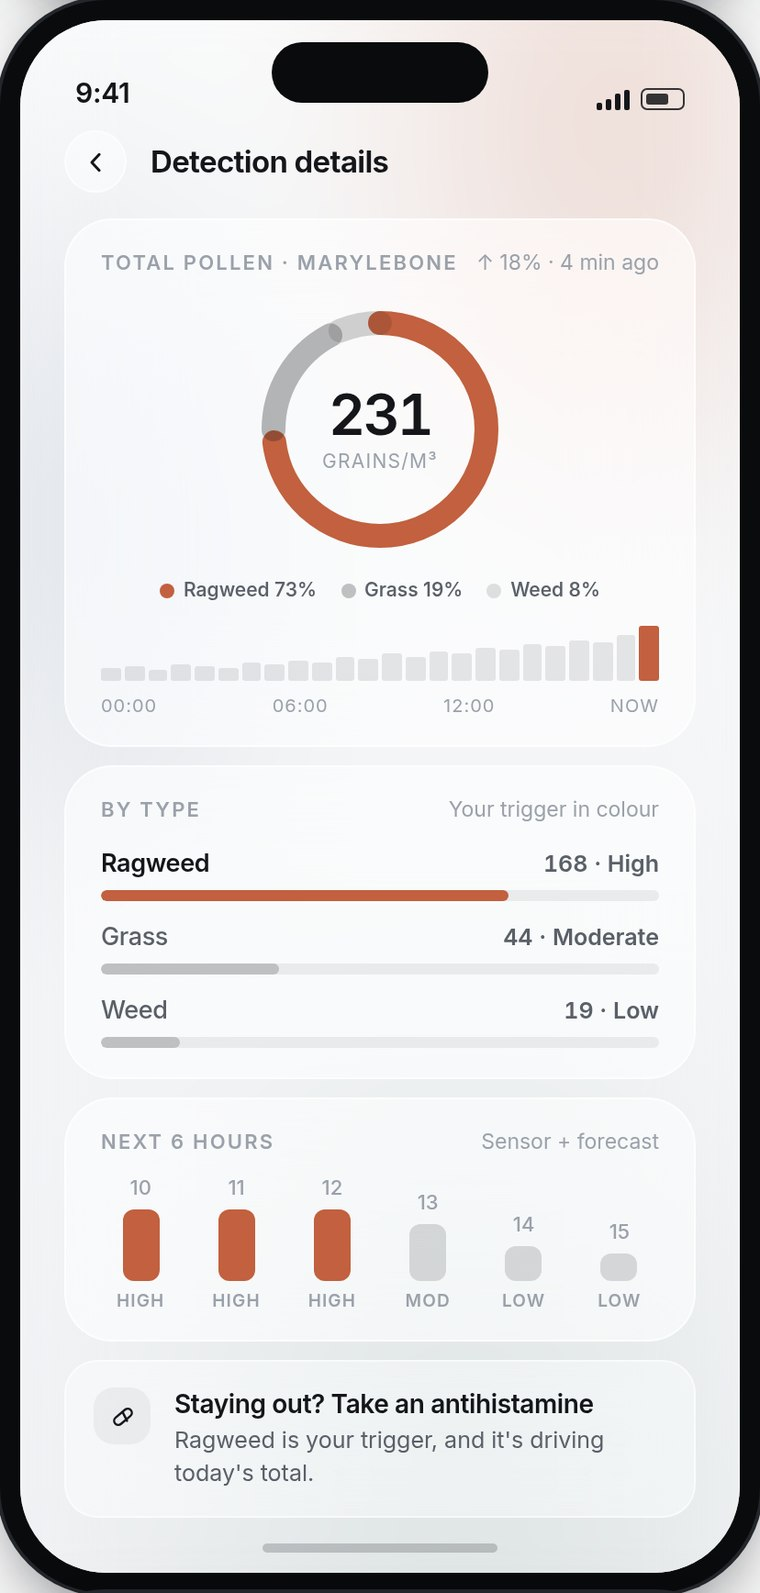
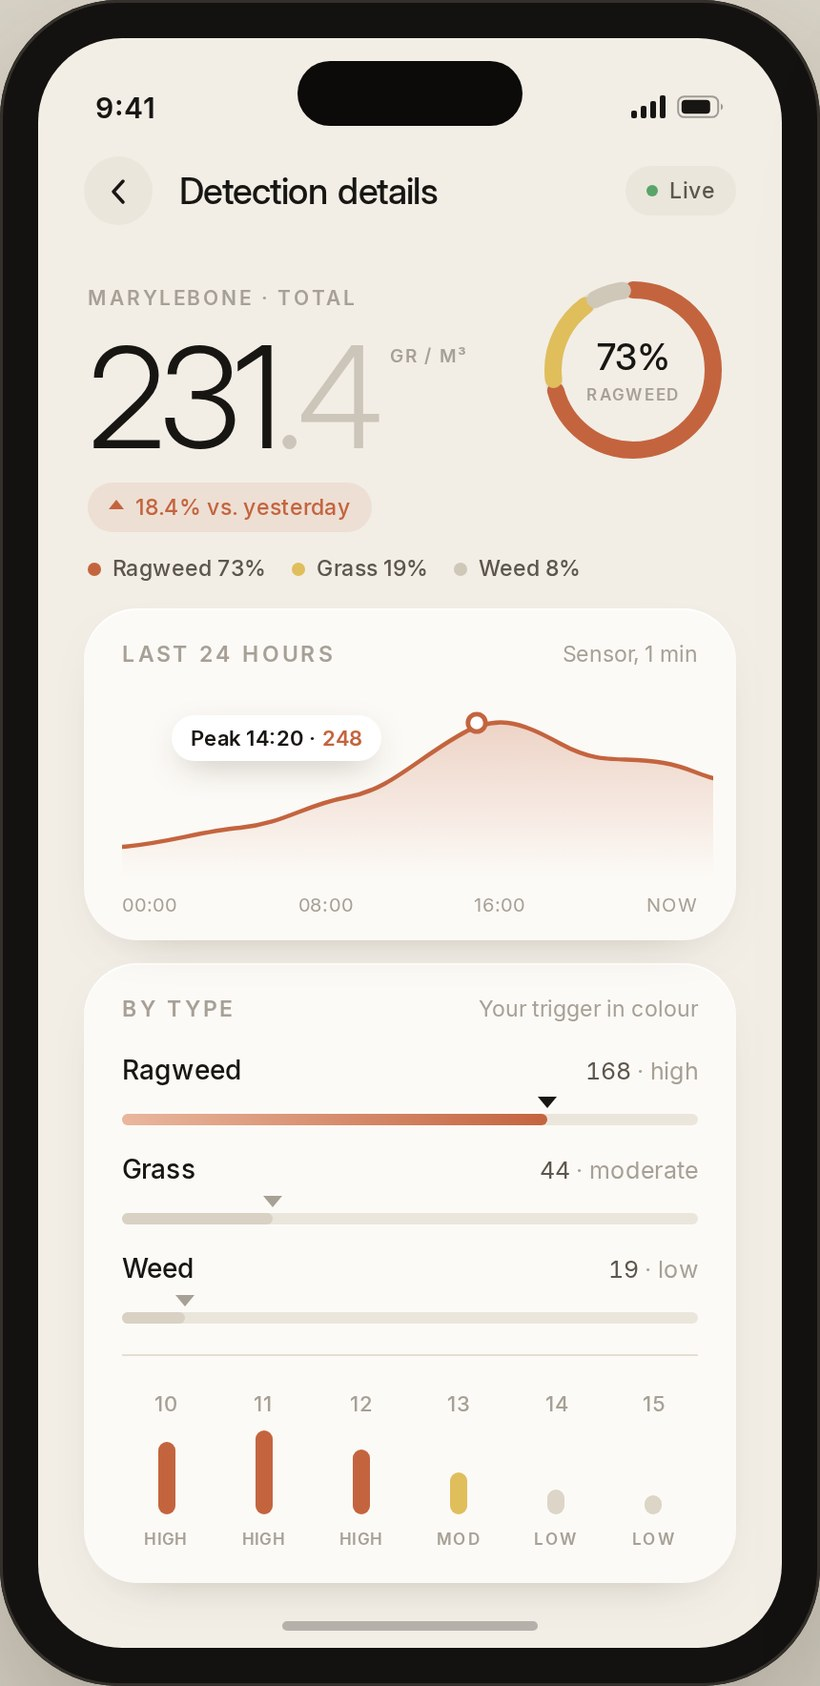
RES: redo the 2026 app screens in a more restrained editorial style
Warm paper ground instead of clinical white, oversized two-tone figures
for the reading that matters, one accent colour plus a single muted
second tone, floating callout on the 24-hour trend, and triangle markers
on the by-type scale. The composition ring stays.

Claude-Session: https://claude.ai/code/session_01A2AqwaHUmSdqfKoAZn74z6

Changed region(s): [[0.0, 0.0, 1.0, 1.0], [0.0908, 0.8613, 0.1211, 0.9228]]

diff --git a/work/res.html b/work/res.html
@@ -148,7 +148,7 @@
 
     <h2>Revisiting the interface, 2026</h2>
     <p>The screens above are what the team shipped in 2025. Coming back to them after a year at Xiaomi Auto and 1Soul, I can see exactly where my craft was thinner than my thinking: the data was there, but it wasn't ranked, so the screen never said which number to act on. Percentages sat in a ring chart that's hard to compare across three categories. The advice was generic where the whole premise of RES is that it knows <em>your</em> trigger.</p>
-    <p>So I redesigned the three core screens against the same requirements, on a deliberately narrow system: one accent colour, spent only where an action is required, everything else tonal, and frosted glass over a soft blurred field so the data sits on something rather than floating on flat white. Nothing here shipped; it's a personal exercise, dated as such, and I'm keeping the originals alongside because the gap is the point.</p>
+    <p>So I redesigned the three core screens against the same requirements, on a deliberately narrow system: a warm paper ground instead of clinical white, one accent colour carrying the reading you're meant to act on and a single muted second tone for everything ranked below it, figures set large enough to read at arm's length, and frosted glass only where a sheet genuinely sits over live context. Nothing here shipped; it's a personal exercise, dated as such, and I'm keeping the originals alongside because the gap is the point.</p>
 
     <div class="thennow">
       
@@ -158,7 +158,7 @@
               <span class="thennow__tag">2025 · shipped</span>
             </figure>
             <figure class="thennow__shot">
-              <img src="../assets/images/res/app-alert-2026.jpg" alt="The 2026 redesign of the alert screen: a frosted-glass sheet over a blurred map, headed 'High ragweed where you're standing', with a 168 grains per cubic metre reading, an antihistamine timing row, a cleaner-air suggestion, and Not now / Remind me buttons" loading="lazy">
+              <img src="../assets/images/res/app-alert-2026.jpg" alt="The 2026 redesign of the alert screen: a frosted-glass sheet over a map, headed 'High ragweed where you're standing', with a 168 grains per cubic metre reading marked as 2.1 times the user's threshold, an antihistamine timing row, a cleaner-air suggestion, and Not now / Remind me buttons" loading="lazy">
               <span class="thennow__tag thennow__tag--new">2026 · redesigned</span>
             </figure>
           <p class="thennow__cap"><strong>Alert.</strong> The original led with the word "Alert" and a duration. The redesign leads with what's actually happening and to whom, states the reading against the user's own threshold, and turns "take 2 pills" into a timed action plus an escape route: where the air is clearer.</p>
@@ -170,7 +170,7 @@
               <span class="thennow__tag">2025 · shipped</span>
             </figure>
             <figure class="thennow__shot">
-              <img src="../assets/images/res/app-detail-2026.jpg" alt="The 2026 redesign of detection details: glass cards showing a total of 231 grains per cubic metre with a 24-hour trend, a by-type breakdown where only the user's trigger carries colour, a six-hour forecast, and an antihistamine suggestion" loading="lazy">
+              <img src="../assets/images/res/app-detail-2026.jpg" alt="The 2026 redesign of detection details: an oversized 231 grains per cubic metre reading beside the pollen composition ring, a 24-hour trend with the peak called out, the three pollen types ranked on one shared scale with only the user's trigger in colour, and a six-hour forecast" loading="lazy">
               <span class="thennow__tag thennow__tag--new">2026 · redesigned</span>
             </figure>
           <p class="thennow__cap"><strong>Detection details.</strong> Three separate sparklines can't be compared at a glance, so the original made you do the work. The composition ring stays, because it was the right idea: one glance tells you what the air is made of. What changed is everything around it. The three types are also ranked on one shared scale, colour is spent only on the type you actually react to, and a six-hour forecast is added, which is what turns a reading into a decision about when to go out.</p>
